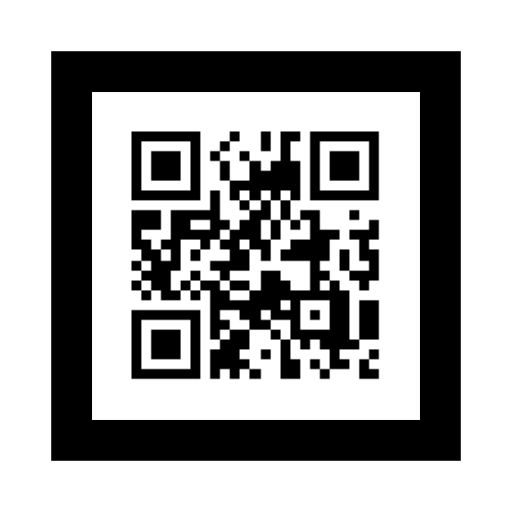
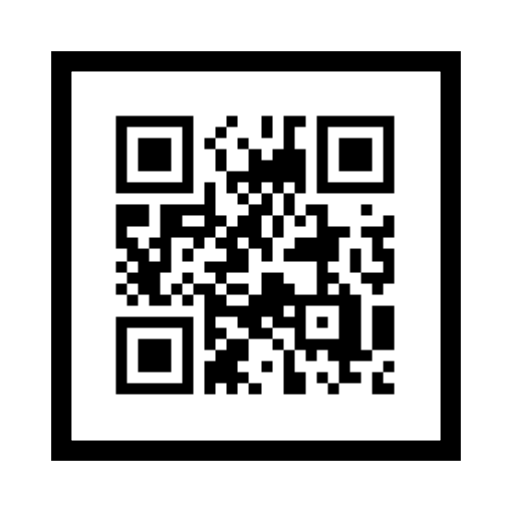
Updated: to use marker

Changed region(s): [[0.2188, 0.2188, 0.7812, 0.7812], [0.125, 0.125, 0.875, 0.875]]

diff --git a/js/main.js b/js/main.js
@@ -82,7 +82,7 @@ function init()
 	markerRoot1 = new THREE.Group();
 	scene.add(markerRoot1);
 	let markerControls1 = new THREEx.ArMarkerControls(arToolkitContext, markerRoot1, {
-		type: 'pattern', patternUrl: "data/hiro.patt",
+		type: 'pattern', patternUrl: "data/qr.patt",
 	})
 
 	let geometry1	= new THREE.CubeGeometry(1,1,1);
